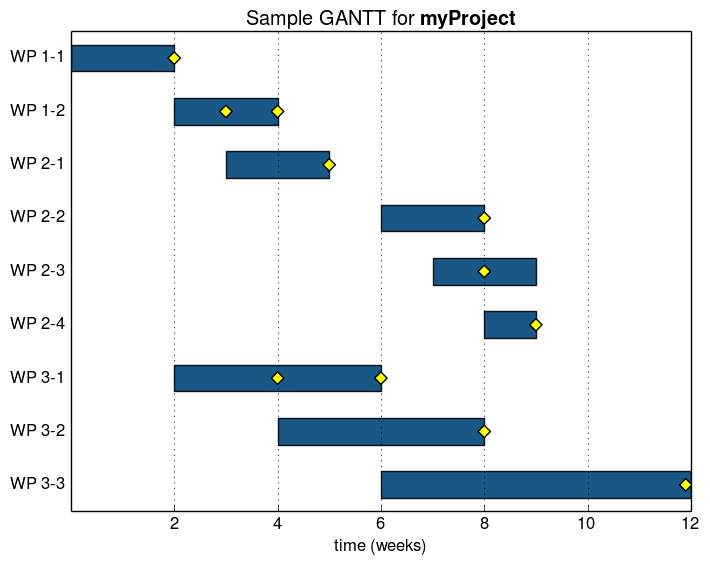
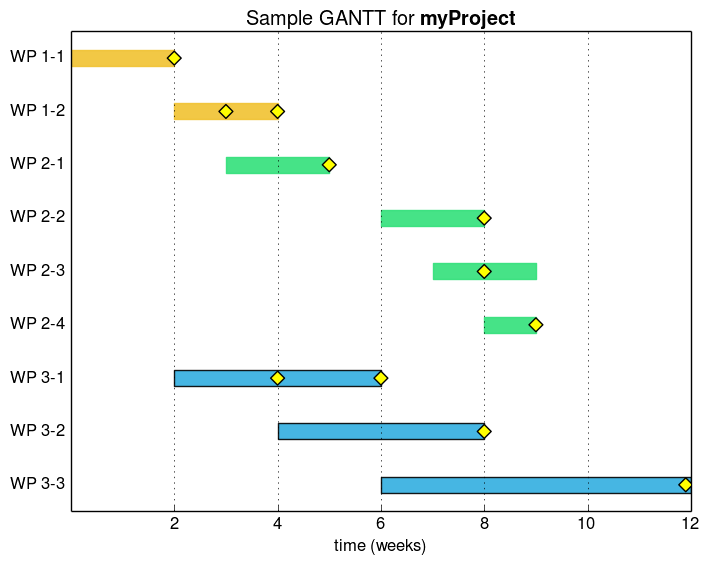
update Readme

diff --git a/Readme.md b/Readme.md
@@ -3,44 +3,70 @@
 gantt.py is a python class to produce, well, Gantt charts. The charts are kept (very) simple, using a discreet time scale, unicolor bars and optional milesstones. Adapt the data structure according to your needs.
 
 ###Background
-Gantt charts are commonly is in project management. I had to make one myself and LibreProject was way too involved for that. Hence I used OOCalc and a plain horizontal bar chart. That took some time but was ok. One day I was requested to add milestones (basically just a marker) to the chart. I completely failed doing this in OOCalc (and still don't know if its possible at all).
+Gantt charts are commonly used in project management. I had to make one myself and LibreProject was way too involved for that. Hence I used OOCalc and a plain horizontal bar chart. That took some time but was ok. One day I was requested to add milestones (basically just a marker) to the chart. I completely failed doing this in OOCalc (and still don't know how to do that ...).
 
 Long story short: I don't know how to [excel](https://xkcd.com/559/).
 
-### Data structure
+### Basic usage
 
-All data is provided in plain python.
 ```python
-# dictionary called timing with package name as key and start/end as values
-# this provides the basic structure. Start and end value are discreet
-timing = {
-    "A" : "0,3",
-    "B" : "2,4",
-    "C" : "3,5"
-}
-
-# a title string (may contain TeX)
-title = r" Sample GANTT for \textbf{myProject}"
-
-#OPTIONAL
-# a dictionary mapping milestones to packages
-mileStones = { "A" : 2, "B" 4}
-# label for x axis
-xlabel = "time (weeks)"
-# manual ticks on x axis
-xticks = [2,4,6,8,10,12]
-
+from gantt import Gantt         # import
+g = Gantt("data.json")          # init
+g.render()                      # render
+g.barlist[2].set_color('#F1C231')    # color individual bars
+g.show()                            # or save w/ g.save('foo.png')
 ```
 
-See sample.py for the data used to produce the image below.
+### Data structure :construction:
+
+All data is provided as a JSON structure that **has to  contain**:
+
+ - a dictionary-like object packages with the name as key and start/end as value. This provides the basic structure. Start and end value are discreet.
+ - a title string (may contain TeX, escaped)
+
+```json
+
+{
+"packages" : {
+    "A": "0, 2",
+    "C": "2, 4",
+    "D": "3, 5",
+   },
+
+"title" : "Sample GANTT for \\textbf{myProject}"
+}
+```
+
+Optionally the JSON may also contain:
+
+ - a dictionary mapping milestones to packages
+ - a label for the x-axis
+ - a definition of where set tickmarks
+
+```json
+
+{
+"milestones" : {
+    "A": [2],
+    "B": [3, 4],
+    },
+"xlabel" : "time (weeks)",
+"xticks" :  [2,4,6,8,10,12]
+}
+```
+
+See [sample.json](./sample.json) for the data used to produce the image below.
 ### Requirements
 
  - numpy
  - matplotlib
 
 ### ToDo
- - nicer data structure (JSON most likely)
+ - nicer data structure (JSON) :construction:
+ - dedicated class for packages :construction:
  - add parameter object/dict for more control over colors etc
 
 ###Screenshot
 ![Sample Gantt with milestone](img/GANTT.png)
+
+See [sample.json](./sample.json) for definition.
